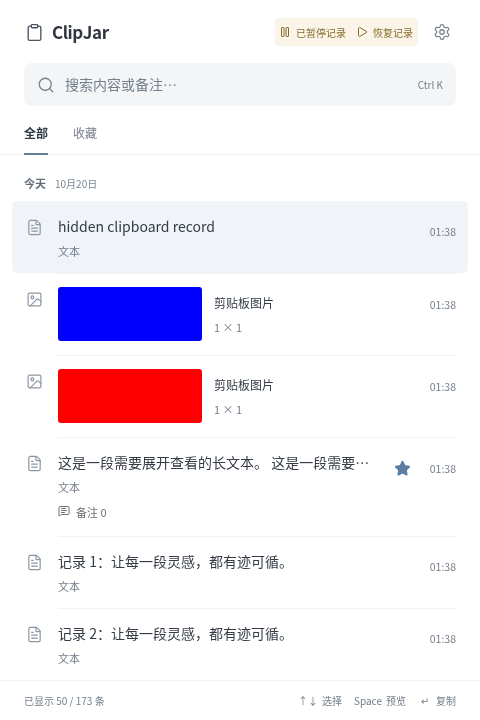
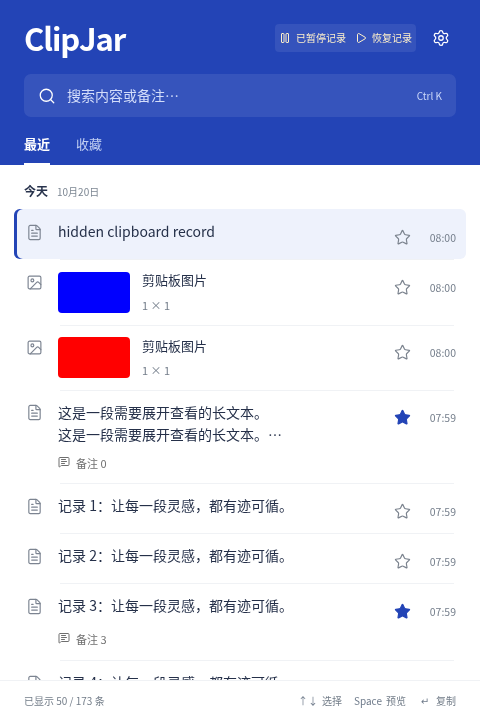
归档钴蓝白色封板截图与三平台验收记录 [skip ci]

diff --git a/design-qa.md b/design-qa.md
@@ -1,43 +1,33 @@
-# ClipJar 列表样式细化 QA
+# ClipJar 钴蓝与白色视觉验收
 
 final result: passed
 
-本轮按用户“功能没问题，再调整一版更优雅的样式”的反馈，细化已选原生列表方向。保留现有结构与功能，主动调整装饰、字号、留白与选中态，并非重新克隆最初生成稿。
+2026-10-20。依据用户明确选择的“钴蓝构成 + 白色”制作，参考稿为 [02-cobalt.png](docs/design/concepts/02-cobalt.png)。本次验收对象是已有桌面应用，保留真实历史记录、系统复制、收藏、备注、搜索与隐私暂停。
 
-## 对照证据
+## 对照与观察
 
-- 改前：`docs/screenshots/refinement-before.png`，本轮开始时实际运行截图。
-- 改后：`docs/screenshots/main.png`，本轮实际浏览器截图。
-- 完整对照：`docs/screenshots/design-comparison.png`，左为改前，右为改后。
-- 局部对照：`docs/screenshots/design-comparison-header.png`，核对标题、搜索、筛选、日期组和选中行。
-- 两图均为 480 × 720 CSS viewport、480 × 720 像素、deviceScaleFactor 1；不需要密度归一化，没有拉伸或变形。内容、浅色主题、第一条选中状态相同，采用独立示例数据，时区 Asia/Shanghai。
-- 最初选中的视觉方向仍保留在 `docs/design/native-list-reference.png`，本轮参考的是实际界面与用户最新反馈。
+[并排对照](docs/screenshots/cobalt-comparison.png)：左为选中概念稿，右为实际运行页面。参考图从 1024 × 1536 等比缩至 480 × 720，实际截图为 480 × 720 CSS viewport、deviceScaleFactor 1，无拉伸。使用独立示例记录，时区 Asia/Shanghai。
 
-## 本轮检查与修正
+- 钴蓝 `#2344b6` 集中在顶栏和主要动作；主体按用户要求使用纯白，替代概念稿的暖白。
+- 保留大字标、半透明搜索框、下划线导航、连续列表与轻量选中态。480 × 720 下顶栏约 165 px，图片主操作位于可见范围内。
+- 选中图片后，在记录下方显示大图、真实尺寸、放大、收藏与复制。图片点击用于选择，Enter 复制，Space 仍可打开完整预览。普通文本维持点击复制。
+- 不编造图片文件名、格式或文件大小；未备注时显示“剪贴板图片”。建筑照片由出图模型生成，仅作为测试素材，不进入生产前端包。
+- 设置与完整预览统一为钴蓝标题栏和白色内容。白色焦点轮廓用于蓝底控件，正文区保留蓝色焦点轮廓。
 
-1. 去掉类型图标底块与重复空心星标，保留已收藏标记；普通收藏入口在悬停、聚焦和触摸环境中可见。
-2. 标题由 20 px/650 调至 17 px/600；正文保持 14 px，保留系统字体栈。弱化搜索框与底部键帽边界，统一 24 px 横向边距。
-3. 选中态由整行高饱和蓝色改为轻微内缩、低饱和底色；普通记录保持连续列表，没有新增记录卡片。
-4. 增加行间距，移除列表字数信息；内容和字数仍可在全文预览中查看。相同窗口中少显示一条记录是有意的密度调整，滚动与分页保持可用。
-5. 设置与预览同步调整间距、字重与颜色；清除宣传式副文案。合并重复的窄窗口/触摸样式，重新捕获后检查控制区边界。
+## 已检查表面
 
-## 必检表面
-
-| 项目 | 结果 |
+| 表面 | 结果与证据 |
 | --- | --- |
-| 字体与排版 | 系统 sans、14 px 正文、12 px 等宽代码、11 px 类型说明；标题不抢正文。保留长文本截断、全文预览和完整复制。 |
-| 间距与布局 | 统一左右边距；图标无底块，分隔线跟随内容列；选中态仅做轻微内缩。设置、预览与主界面使用一致的间距。 |
-| 颜色与状态 | 黑灰为主，灰蓝强调；保留清楚的焦点轮廓、收藏状态和暂停语义色。未声明整套界面达到完整可访问性认证。 |
-| 图片与图标 | 使用现有图标库，未新增插图或手绘替代；示例海报、真实图片加载和像素复制逻辑保持不变。 |
-| 产品文案 | 列表仅显示内容类型和时间，字数移至已有预览；设置说明改为功能描述，页脚展示版本。 |
+| 主界面、图片操作 | [主界面](docs/screenshots/main.png)，无横向溢出；图片与复制动作在常用窗口内完整显示。 |
+| 设置、全文、图片预览 | [设置](docs/screenshots/settings.png)、[全文](docs/screenshots/content-preview.png)、[图片预览](docs/screenshots/image-preview.png)，内容可滚动，关闭与焦点恢复正常。 |
+| 420 × 600 小窗口 | [图片工作区](docs/screenshots/small-image.png)、[定时暂停](docs/screenshots/small-paused.png)，主体滚动，顶栏稳定，控制按钮不溢出。 |
+| 暂停与删除撤销 | [暂停菜单](docs/screenshots/pause-menu.png)、[删除撤销](docs/screenshots/delete-undo.png)，状态和操作仍清楚可见。 |
+| 图片错误状态 | 损坏图片显示说明并禁用复制与放大；重新选择恢复后的记录可正常预览和复制。 |
+| Linux 原生运行 | [Tauri 窗口客户区](docs/screenshots/native-linux.png)，真实本地图片加载正常；点击图片复制成功，后端使用次数从 0 增至 1。 |
+| 键盘、模态与反馈 | 170 条历史跨批次导航、搜索、Space、Escape、焦点约束、设置失败与重试均通过回归。 |
 
-## 验证
+## 验证边界
 
-- 前端构建、33 项单测和浏览器回归通过。
-- 浏览器回归覆盖搜索、170 条记录分页和键盘跨页、收藏筛选、全文/图片预览、系统设置失败/重试、暂停、撤销、迁移与弹窗焦点。
-- 补充操作检查通过：420 × 600 定时暂停与控制区边界、480 × 720 列表和弹窗、960 × 720 横向边界、图片预览、删除撤销及收藏备注保存；未捕获到 pageerror。
-- 证据为浏览器运行及原生命令/事件模拟，不新增 Windows/macOS 原生窗口已通过的结论。
+主对照及各状态截图来自真实 React 页面与浏览器运行，使用隔离示例数据和原生命令模拟；另单独提供 Linux/Xvfb 的原生窗口截图，使用隔离 SQLite 数据。没有将它们标为 Windows/macOS 原生窗口截图。三平台构建与原生测试结果、完整命令见[封板记录](docs/freeze-report.md)。
 
-## 结果与后续
-
-没有未解决的 P0/P1/P2 项。P3：后续可在真实 Windows/macOS 的系统缩放下复查字体回退与细线观感。
+没有未解决的 P0/P1/P2 视觉问题。P3：系统字体回退、系统标题栏和缩放的细微差异仍取决于用户的桌面环境。

diff --git a/docs/freeze-report.md b/docs/freeze-report.md
@@ -1,0 +1,49 @@
+# 钴蓝与白色版本封板检查
+
+日期：2026-10-20（Asia/Shanghai）。应用版本维持 1.0.6；本轮完成代码与设计收口，没有发布安装包。
+
+功能提交：[`5c9a85d`](https://github.com/KeatonLi/clipjar/commit/5c9a85d3e37515ff9de9896ac1e1e37a3b2bab4b)。
+
+## 变更
+
+- 按选中的钴蓝构成稿完成顶栏、白色列表、选中态、设置和预览。
+- 增加图片内联工作区，保留原生图片像素复制、完整预览与键盘操作。
+- 损坏图片禁止复制和放大，明确提示恢复方式。
+- 将前端 Tauri API/插件版本对齐 Rust 锁文件，解决 CLI 构建时的版本检查失败。
+- 明确跨平台浏览器测试中 Windows 快捷键场景的模拟平台，同时保留独立 macOS 快捷键测试。
+
+## 本地完整验证
+
+| 检查 | 结果 |
+| --- | --- |
+| `npm test` | 33 项通过。 |
+| `cargo test --locked --manifest-path src-tauri/history-core/Cargo.toml` | 19 项存储/采集策略测试通过。 |
+| `python3 -m unittest discover -s tests -p 'test_*.py'` | 3 项诊断工具测试通过。 |
+| `npm run test:browser` | 全部通过，未捕获未处理页面异常。 |
+| `npm run tauri -- build --debug --no-bundle` | TypeScript、生产前端资源与 Linux Tauri 二进制构建通过。 |
+| `npm run test:native` | 真实 Linux Tauri 二进制通过，输出 `CLIPJAR_NATIVE_SMOKE_PASSED`。 |
+| 视觉对照 | [passed](../design-qa.md)，包含 480 × 720 与 420 × 600 状态。 |
+| Linux 原生界面操作 | 实际窗口加载 SQLite 示例及本地图片；点击“复制图片”成功，后端使用次数由 0 增至 1。 |
+
+浏览器回归包含 170 条历史、跨批次键盘导航、全文预览与焦点、Mac 快捷键、图片原生像素复制、隐藏更新、独立设置失败/超时/重试、暂停不补录、删除撤销、旧事件拒绝、迁移失败保护与恢复、新图片工作区及损坏图片保护。
+
+原生冒烟包含系统文字/图片剪贴板、图片持久化、隐藏窗口继续采集、快捷键注册/注销、窗口显隐、暂停后不补录。Linux 云环境使用 Xvfb 和 rootless PRoot，将已安装的 WebKit 子进程路径映射到标准位置；没有关闭 WebKit 沙箱。测试使用临时数据目录，结束后清理。
+
+## Windows / macOS
+
+[Desktop checks #6](https://github.com/KeatonLi/clipjar/actions/runs/39390341577) 已完成，整体结果 **success**，耗时 6 分 22 秒，验证提交为 `5c9a85d`。
+
+| 平台 | 单测与存储 | 浏览器回归 | 桌面二进制构建 | 真实原生冒烟 |
+| --- | --- | --- | --- | --- |
+| [Windows](https://github.com/KeatonLi/clipjar/actions/runs/39390341577/job/118520075656) | 通过 | 通过 | 通过 | 通过 |
+| [macOS 15](https://github.com/KeatonLi/clipjar/actions/runs/39390341577/job/118520075892) | 通过 | 通过 | 通过 | 通过 |
+
+两项任务均完成制品归档和收尾，所有步骤通过。该检查使用真实系统剪贴板与桌面二进制，浏览器场景另外使用模拟命令边界；自动化通过不等同于所有系统缩放、权限配置和安装包分发场景都已人工验证。
+
+## 封板结果
+
+本次范围内的设计、功能回归与三平台构建/原生冒烟已完成，没有遗留阻断项。后续截图与报告提交仅归档验收材料，不修改已验证的运行代码。
+
+## 查看效果
+
+[全部界面截图](ui-preview.md) · [设计稿对照](screenshots/cobalt-comparison.png)

diff --git a/docs/ui-preview.md b/docs/ui-preview.md
@@ -1,39 +1,43 @@
-# ClipJar 界面预览
+# ClipJar 钴蓝与白色界面
 
-新版延续原生列表：收细标题、去除图标底块，增加阅读留白，用轻量灰蓝选中态降低视觉干扰。以下均为实际运行的浏览器截图，使用独立示例数据。带“记录中”的页面使用原生命令与事件模拟，系统剪贴板与原生窗口效果仍需在桌面端确认。
+按用户选中的钴蓝构成方案落地：钴蓝顶栏、纯白主体、连续列表和图片工作区。下面都是实际运行截图，使用隔离示例数据与原生命令模拟。
 
-## 主界面
+## 主界面与图片工作区
 
-按今天、昨天与日期分组。时间与已收藏标记对齐在右侧；悬停或键盘聚焦时，可以收藏、预览、删除或编辑备注。
+文本点击复制；图片点击展开大图，支持放大、收藏和复制。键盘 Enter 复制，Space 打开完整预览。
 
-![ClipJar 主界面](screenshots/main.png)
-
-## 内容预览
-
-完整文本保留换行并支持选择；图片支持适应窗口与实际大小。复制使用统一的主按钮。
-
-![ClipJar 图片预览](screenshots/image-preview.png)
-
-![ClipJar 全文预览](screenshots/content-preview.png)
+![钴蓝与白色主界面](screenshots/main.png)
 
 ## 偏好设置
 
-常规、快捷键、数据设置采用统一分组，自动保存。普通历史和全部数据清空分别确认。
+![偏好设置](screenshots/settings.png)
 
-![ClipJar 偏好设置](screenshots/settings.png)
+## 完整内容预览
+
+![图片完整预览](screenshots/image-preview.png)
+
+![全文预览](screenshots/content-preview.png)
 
 ## 暂停与撤销
 
-采集状态收进右上角。暂停可选 15 分钟、1 小时或手动恢复；删除后提供 10 秒撤销。
-
-![暂停选项](screenshots/pause-menu.png)
+![暂停菜单](screenshots/pause-menu.png)
 
 ![删除撤销](screenshots/delete-undo.png)
 
 ## 小窗口
 
-420 × 600 窗口下仍可操作暂停、搜索与设置，列表和设置内容可滚动。
+420 × 600 下主体可滚动，复制、收藏、搜索、设置和暂停仍可操作。
 
-![小窗口暂停状态](screenshots/small-paused.png)
+![小窗口图片操作](screenshots/small-image.png)
 
-详细检查过程与验证范围见[界面优化记录](design-review.md)。
+![小窗口定时暂停](screenshots/small-paused.png)
+
+[设计稿与运行效果对照](screenshots/cobalt-comparison.png) · [视觉验收](../design-qa.md) · [封板记录](freeze-report.md)
+
+## Linux 原生运行
+
+下图直接捕获 Tauri 二进制的窗口客户区，运行于 Linux/Xvfb，使用隔离的 SQLite 示例数据。图片通过本地 asset 协议加载；实际点击“复制图片”成功，后端使用次数由 0 增至 1。此云桌面使用 UTC，所以上图与此图的示例时间不同。
+
+![Linux Tauri 原生窗口](screenshots/native-linux.png)
+
+前面的图片展示浏览器界面，不代表 Windows/macOS 原生窗口的像素效果。各平台原生测试结果单独记录在封板报告中。

diff --git a/README.md b/README.md
@@ -73,7 +73,7 @@
 
 历史记录每批显示 50 条，可通过“加载更多”访问后续记录；方向键到达当前批次末尾时会继续加载。搜索和收藏筛选作用于全部保留记录。
 
-点击记录旁的预览图标或按空格查看全文。图片支持适应窗口和实际大小切换；预览中按 Enter 复制、按 Esc 关闭。浏览器开发模式仅提供查看和搜索，系统剪贴板、自启与置顶须在桌面端使用。设置读取失败会显示重试；超过 5 秒未响应也会退出加载状态。
+点击记录旁的预览图标或按空格查看全文。图片记录点击后展开大图，可以直接收藏、放大或复制；聚焦图片记录后按 Enter 复制。完整预览支持适应窗口和实际大小切换，按 Enter 复制、按 Esc 关闭。浏览器开发模式仅提供查看和搜索，系统剪贴板、自启与置顶须在桌面端使用。设置读取失败会显示重试；超过 5 秒未响应也会退出加载状态。
 
 ---
 
@@ -104,6 +104,7 @@ npm run tauri build
 
 ```bash
 npm test
+npm run test:history
 python3 -m unittest discover -s tests -p 'test_*.py'
 npm run build
 ```
@@ -118,7 +119,14 @@ npm run test:browser
 
 测试会自动启动并关闭独立 Vite 服务。可用 `CLIPJAR_CHROMIUM_PATH` 指定浏览器，`CLIPJAR_TEST_PORT` 指定测试端口，`CLIPJAR_ARTIFACT_DIR` 保存截图。覆盖超过 50 条历史的访问、跨批次键盘导航、预览与焦点恢复、平台快捷键、设置失败/超时重试和小窗口布局。模拟测试不能替代 Windows/macOS 的真实桌面验收。
 
-测试覆盖图片资源释放、图片复制、连续采集、快捷键按下/松开与收藏保留。原生剪贴板、托盘隐藏后的持续采集和系统快捷键仍需在 Windows/macOS 上实测：连续复制两张相同尺寸的不同图片，分别从历史复制；隐藏到托盘后连续复制多段文字，再唤起确认记录；确认单次按下/松开不会被当作双击，快速切换快捷键后旧键失效。
+浏览器回归还覆盖内联图片复制的原始像素、损坏图片保护、420 × 600 图片操作区、隐私暂停、删除撤销与迁移。真实原生冒烟可在桌面会话中运行：
+
+```bash
+npm run tauri -- build --debug --no-bundle
+npm run test:native
+```
+
+原生冒烟使用隔离数据，验证系统文字/图片剪贴板、隐藏窗口采集、图片持久化、快捷键注册/注销与隐私暂停。跨平台 CI 会在 Windows 与 macOS 执行；当前版本的具体结果见[封板记录](docs/freeze-report.md)。
 
 ---
 

diff --git a/docs/design-review.md b/docs/design-review.md
@@ -1,14 +1,11 @@
-# ClipJar 样式细化
+# ClipJar 钴蓝与白色
 
-继续保留用户选定的原生列表方向。本轮目标是提高日常阅读与操作时的协调感，保持功能和信息结构稳定。
+按用户选中的[钴蓝构成稿](design/concepts/02-cobalt.png)完成。大面积钴蓝顶栏搭配纯白主体，保留连续列表；颜色集中在品牌、导航、选中标记和主要动作。
 
-1. 去除图标底块、重复空心星标和列表字数，减少视觉噪声。
-2. 收细品牌标题，统一横向边距、行距和说明文字；底部快捷键取消键帽边框。
-3. 使用克制的灰蓝色与轻量选中态，让正文成为主要视觉内容。
-4. 设置、预览同步调整间距和文字说明。
+图片记录增加内联工作区：选择后直接看大图、收藏或复制，需要时再进入完整预览。尺寸来自原始记录，没有备注时使用“剪贴板图片”。示例建筑照片只用于截图和测试，不随生产应用加载。
 
-完整验证见[视觉 QA](../design-qa.md)，当前截图见[界面预览](ui-preview.md)。对照图左为改前，右为改后，均为本轮实际浏览器运行截图与同一组示例内容。
+设置、预览与小窗口同步调整。详细检查见[视觉验收](../design-qa.md)，测试和构建结果见[封板记录](freeze-report.md)。
 
-![改前与改后](screenshots/design-comparison.png)
+![选中概念稿与实际应用](screenshots/cobalt-comparison.png)
 
-截图使用独立示例数据与原生命令/事件模拟，不代表已完成目标操作系统的原生窗口验收。
+左侧为选中的概念稿，右侧为实际浏览器运行截图。纯白主体是按用户最新要求作出的调整；图片内容为生成的独立示例素材。
